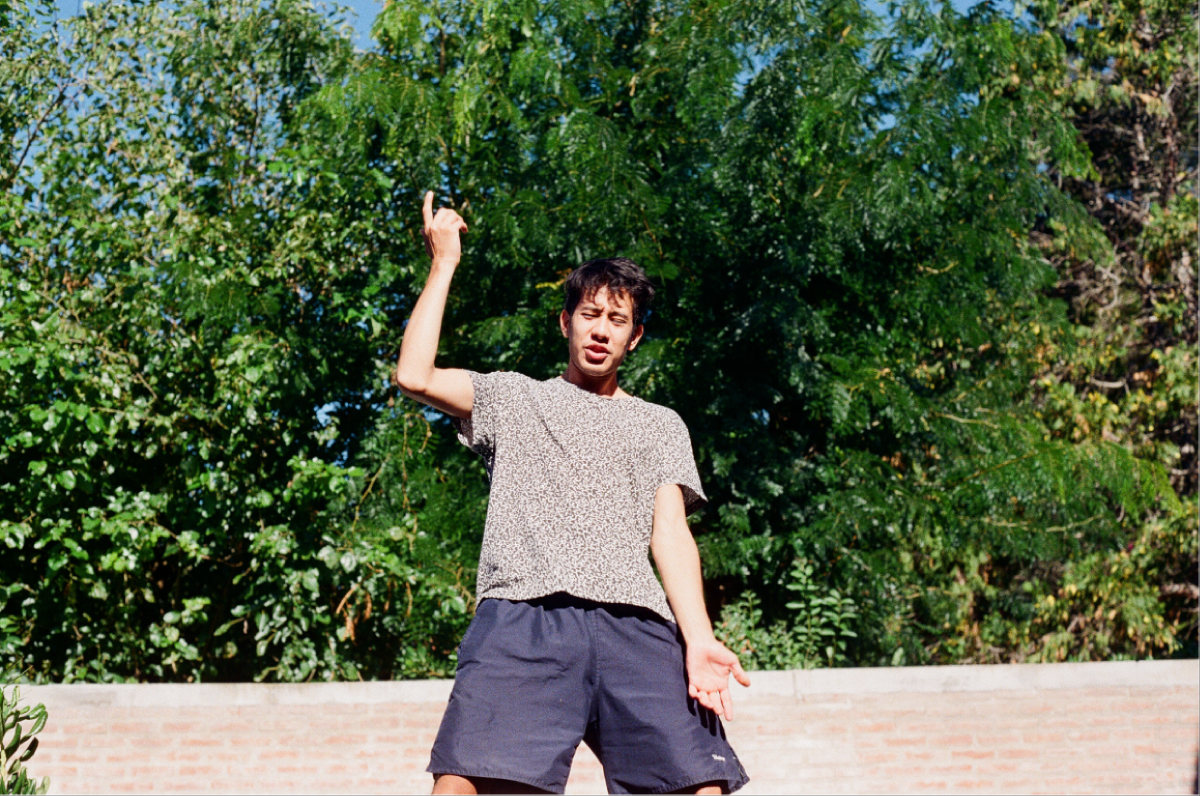
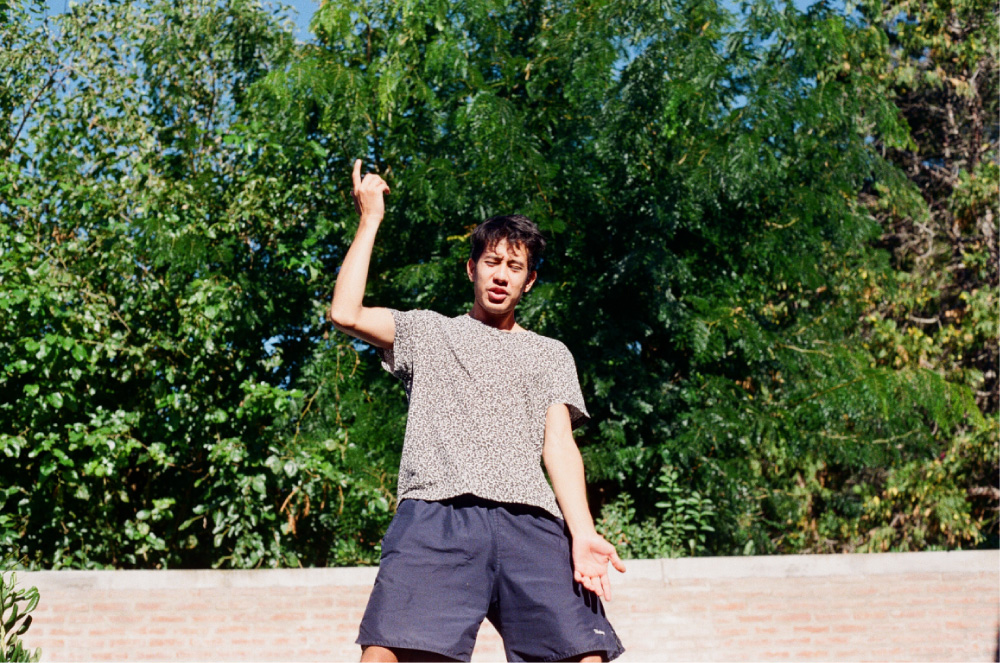
fix missing bg
plus add hover transition for parallax

diff --git a/dist/master.css b/dist/master.css
@@ -103,6 +103,15 @@ body {
   text-shadow: 2px 2px #333;
 }
 
+.parallax h1, .parallax h2, .parallax h3 {
+  -webkit-transition: 500ms ease-in-out 50ms;
+  transition: 500ms ease-in-out 50ms;
+}
+
+.parallax h1:hover, .parallax h2:hover, .parallax h3:hover {
+  opacity: 0.8;
+}
+
 .parallax h1 {
   font: 145px 'gill-sans';
   margin-top: 40px;
@@ -188,7 +197,7 @@ body {
 }
 
 #module-4 {
-  background: url(../img/block2.jpg);
+  background: url(../img/module-5.jpg);
   background-attachment: fixed;
   background-position: center;
   background-repeat: no-repeat;

diff --git a/src/master.sass b/src/master.sass
@@ -62,6 +62,10 @@ body
   box-shadow: inset 0 0 50px black
   overflow: hidden
   text-shadow: 2px 2px #333
+  h1,h2,h3
+    transition: 500ms ease-in-out 50ms
+    &:hover
+      opacity: 0.8
   h1
     font: 145px 'gill-sans'
     margin-top: 40px
@@ -124,7 +128,7 @@ body
       size: cover
 
 #module-4
-  background: url(../img/block2.jpg)
+  background: url(../img/module-5.jpg)
     attachment: fixed
     position: center
     repeat: no-repeat
